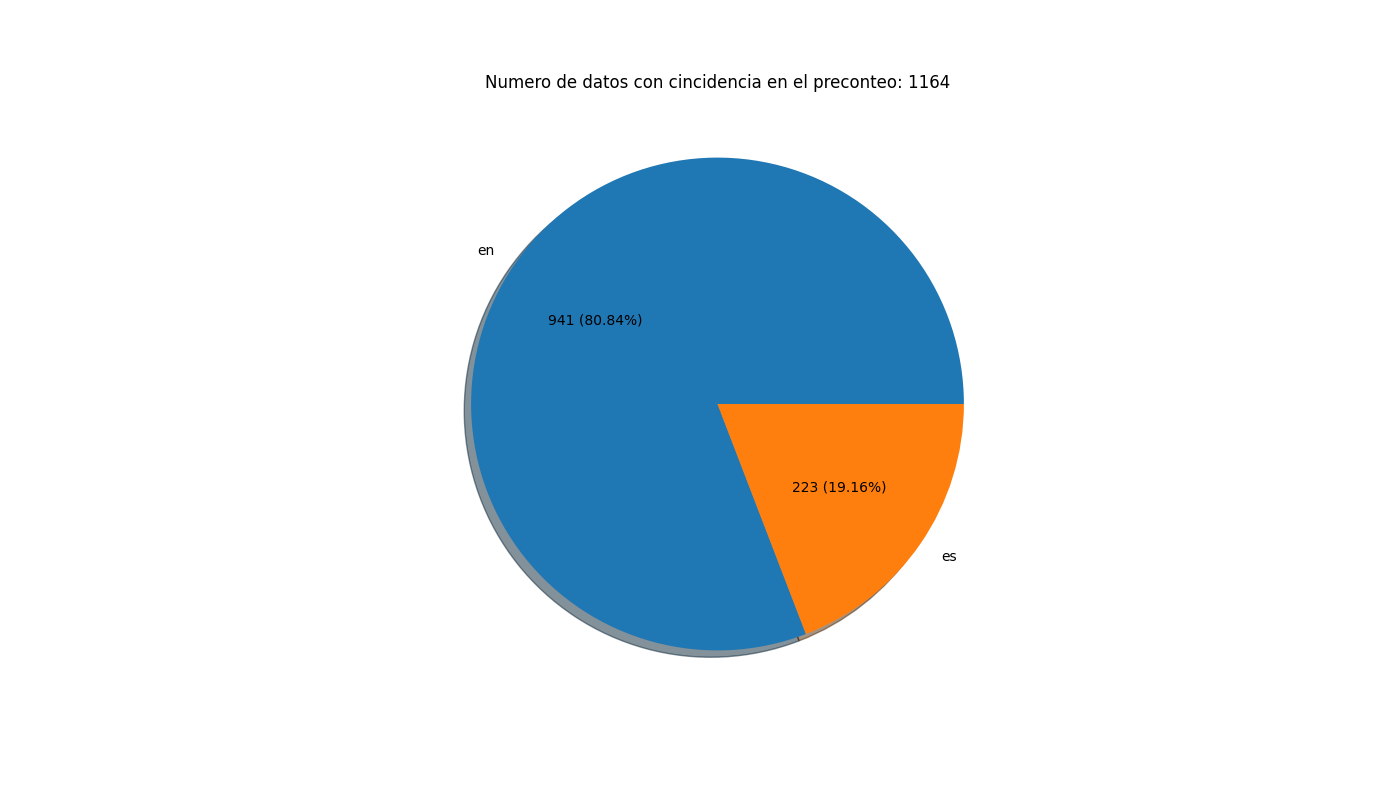
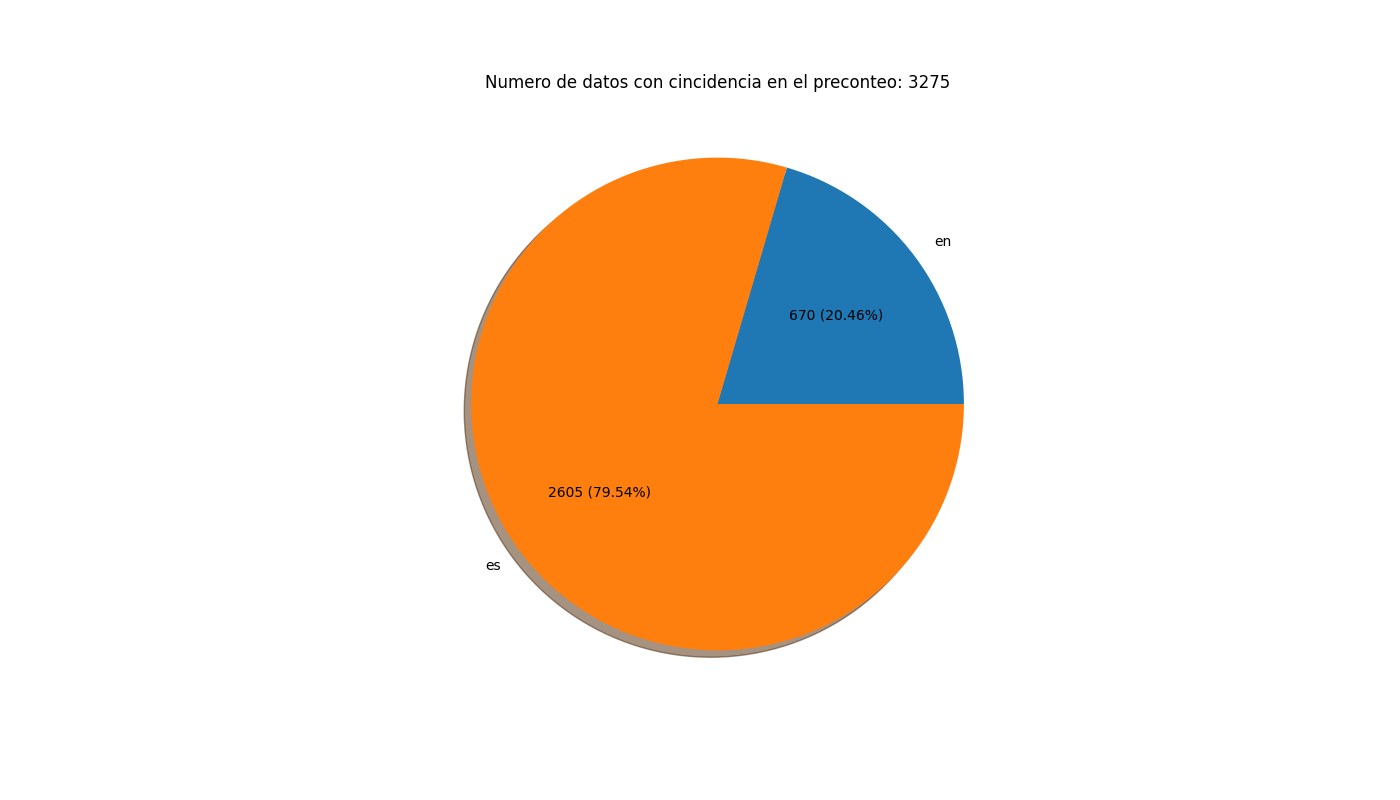
ya funciona solo un poco mejor

Changed region(s): [[0.3071, 0.1875, 0.645, 0.8438], [0.645, 0.0938, 0.6757, 0.125]]

diff --git a/captura_de_datos/filter_data.py b/captura_de_datos/filter_data.py
@@ -7,7 +7,7 @@ import unidecode
 # pip3 install -r requirements.txt <---- por si da flojera instalarlos a mano.
 
 
-numero_muestras = 2500
+numero_muestras = 3500
 
 output_path1 = "./twitter_data/datos_en_bruto/catched_tweets_full_data.csv"
 output_path_m1_en = "./twitter_data/datos_para_tageo_mourning/en_prefiltered_mourning.csv"
@@ -72,8 +72,10 @@ tags_español = [
 tags_español = [stemmer_es.stem(unidecode.unidecode(unicode(w, "utf-8"))).lower() for w in (tags_español)]
 
 tags_ingles = [
+    'We must never forget every one of the heroes',
     'i pray for you to be in the kingdom of god',
     'i will see you again in the kingdom of god',
+    'you will live on forever',
     'sorry for your absence',
     'cry for the departure',
     'the kingdom of god',
@@ -100,9 +102,12 @@ tags_abreviaciones = [
     ' #DUELO ', ' #lutonacional '
 ]
 
-tags_abreviaciones = [w.lower() for w in tags_abreviaciones]
+emojis = []
 
-tags_muerte = tags_español + tags_ingles + tags_abreviaciones
+tags_abreviaciones1 = [stemmer_es.stem(unidecode.unidecode(unicode(w, "utf-8"))).lower() for w in (tags_abreviaciones)]
+tags_abreviaciones2 = [stemmer_en.stem(unidecode.unidecode(unicode(w, "utf-8"))).lower() for w in (tags_abreviaciones)]
+
+tags_muerte = set(tags_español + tags_ingles + tags_abreviaciones1 + tags_abreviaciones2 + emojis)
 
 df_template = pd.DataFrame(columns=df.columns)
 

diff --git a/captura_de_datos/data_analysis.py b/captura_de_datos/data_analysis.py
@@ -8,7 +8,7 @@ from gensim.utils import any2unicode as unicode
 # pip3 install -r requirements.txt <---- por si da flojera instalarlos a mano.
 
 
-usar_muestra = 0
+usar_muestra = 1
 
 stemmer_en = SnowballStemmer('english')
 stemmer_es = SnowballStemmer('spanish')
@@ -59,8 +59,10 @@ tags_español = [
 tags_español = [stemmer_es.stem(unidecode.unidecode(unicode(w, "utf-8"))).lower() for w in (tags_español)]
 
 tags_ingles = [
+    'We must never forget every one of the heroes',
     'i pray for you to be in the kingdom of god',
     'i will see you again in the kingdom of god',
+    'you will live on forever',
     'sorry for your absence',
     'cry for the departure',
     'the kingdom of god',
@@ -87,7 +89,12 @@ tags_abreviaciones = [
     ' #DUELO ', ' #lutonacional '
 ]
 
-tags_muerte = tags_español + tags_ingles + tags_abreviaciones
+emojis = []
+
+tags_abreviaciones1 = [stemmer_es.stem(unidecode.unidecode(unicode(w, "utf-8"))).lower() for w in (tags_abreviaciones)]
+tags_abreviaciones2 = [stemmer_en.stem(unidecode.unidecode(unicode(w, "utf-8"))).lower() for w in (tags_abreviaciones)]
+
+tags_muerte = set(tags_español + tags_ingles + tags_abreviaciones1 + tags_abreviaciones2 + emojis)
 
 output_path1 = "./twitter_data/datos_en_bruto/catched_tweets_full_data.csv"
 output_path2 = "./twitter_data/datos_en_bruto/catched_tweets_sample.csv"
